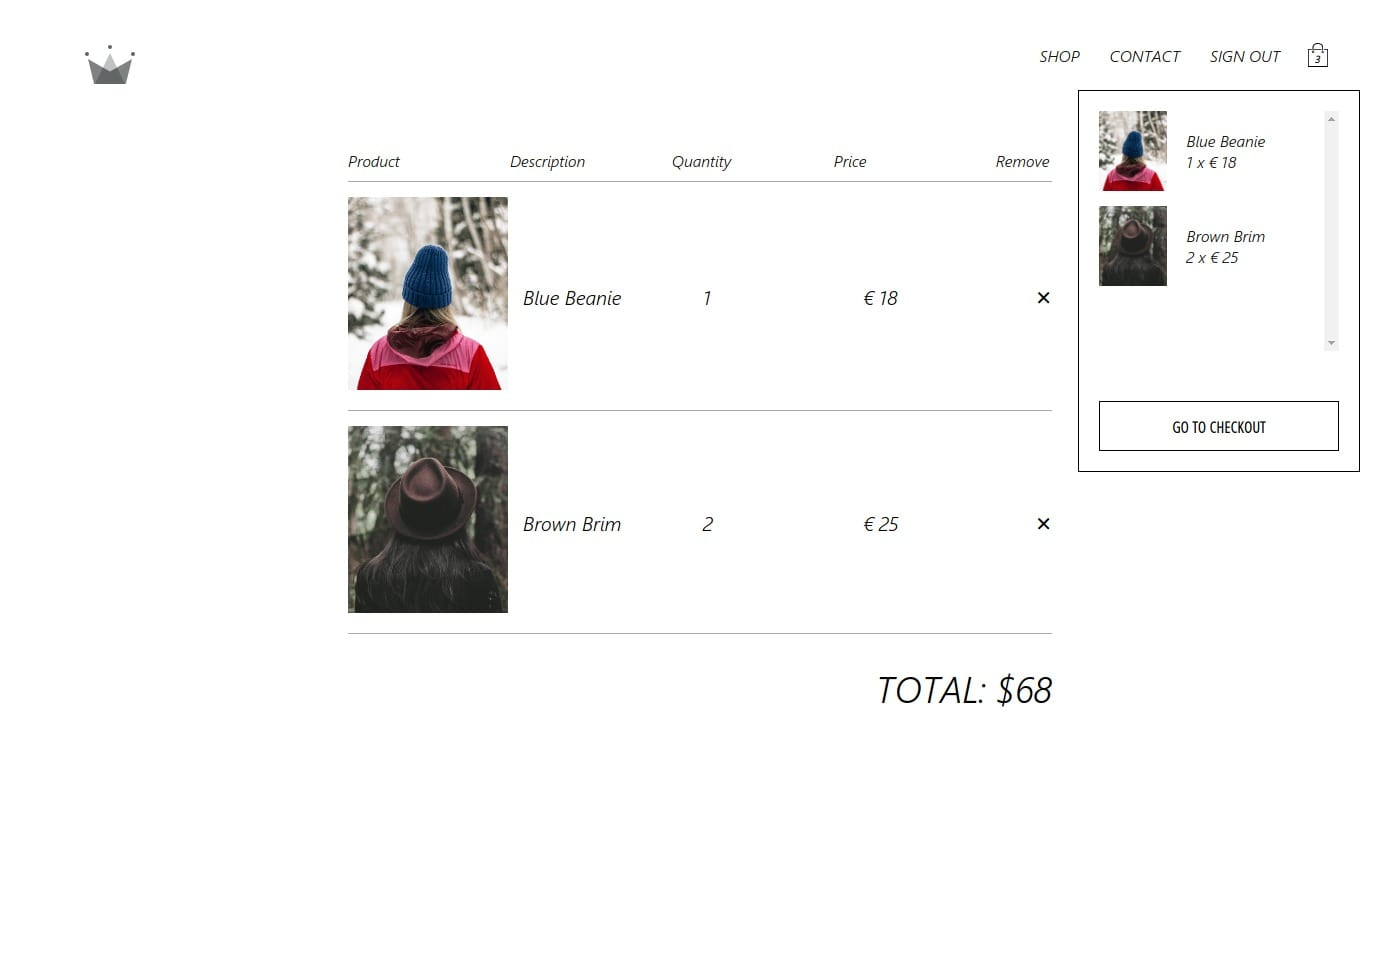
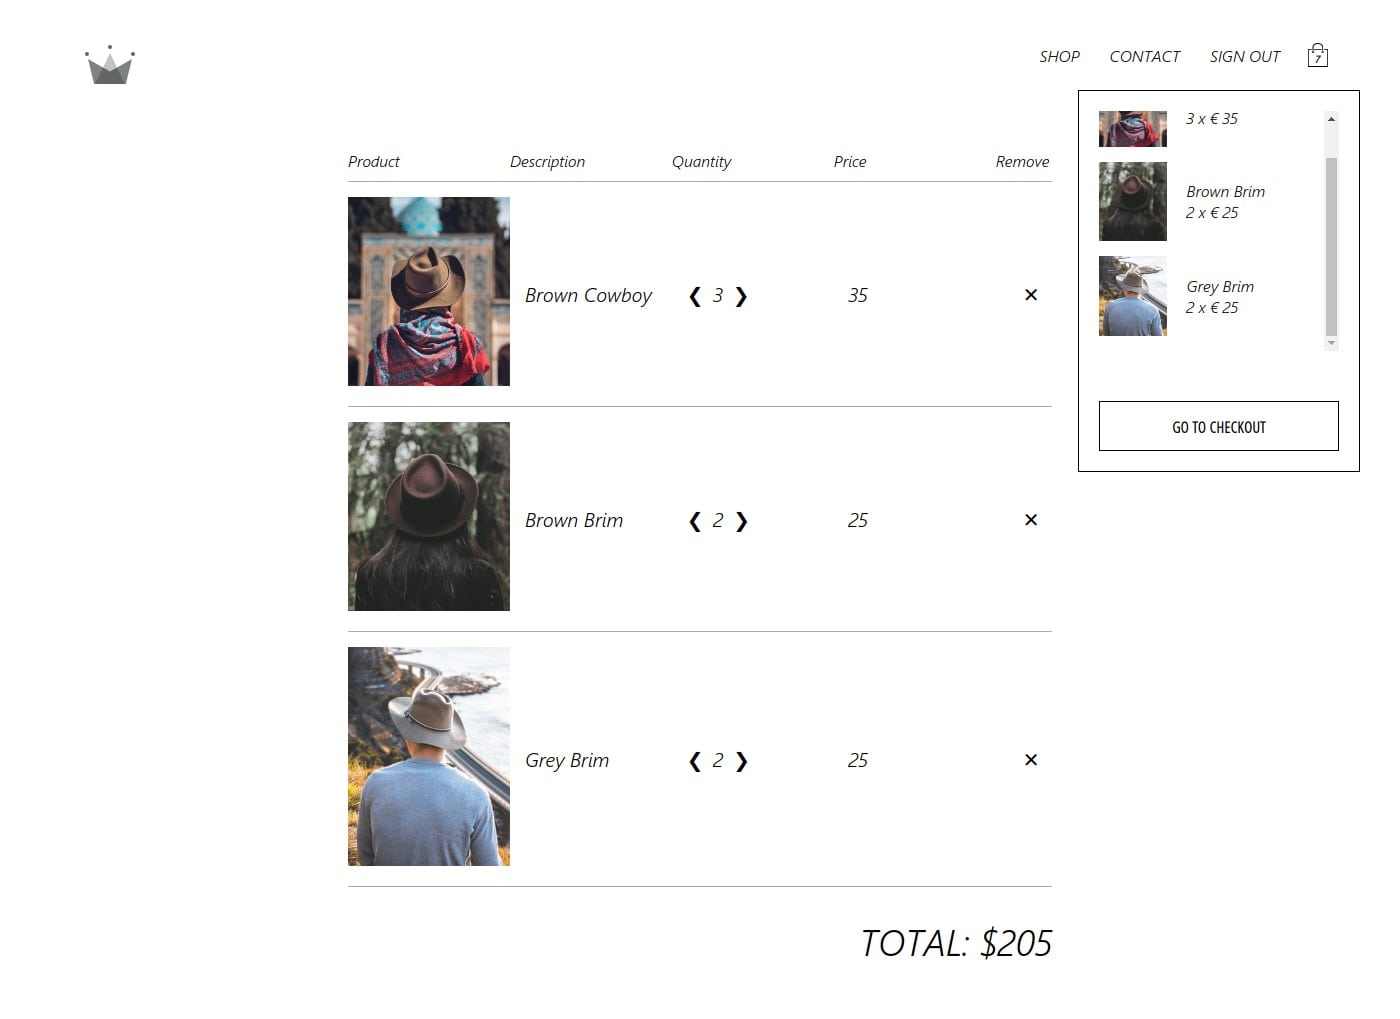
add: remove goods from cart

diff --git a/src/components/checkout-item/checkout-item.component.jsx b/src/components/checkout-item/checkout-item.component.jsx
@@ -1,19 +1,45 @@
 import React from 'react';
+import { connect } from 'react-redux';
+
+import { clearItemFromCart, addItem, removeItem } from 'store/cart/cart.actions';
 
 import './checkout-item.styles.scss';
 
 
-const CheckoutItem = ({ cartItem: { name, imageUrl, price, quantity } }) => (
-	<div className='checkout-item'>
-		<div className='image-container'>
-			<img alt='item' src={ imageUrl } />
+const CheckoutItem = ({ cartItem, clearItem, addItem, removeItem }) => {
+	const { name, imageUrl, price, quantity } = cartItem;
+	
+	return (
+		<div className='checkout-item'>
+			<div className='image-container'>
+				<img src={imageUrl} alt='item' />
+			</div>
+			<span className='name'>{name}</span>
+			<span className='quantity'>
+        <div className='arrow' onClick={ () => removeItem(cartItem) }>
+          &#10094;
+        </div>
+        <span className='value'>{quantity}</span>
+        <div className='arrow' onClick={ () => addItem(cartItem) }>
+          &#10095;
+        </div>
+      </span>
+			<span className='price'>{price}</span>
+			<div className='remove-button' onClick={ () => clearItem(cartItem) }>
+				&#10005;
+			</div>
 		</div>
-		<span className='name'>{ name }</span>
-		<span className='quantity'>{ quantity }</span>
-		<span className='price'>€ { price }</span>
-		<span className='remove-button'>&#10005;</span>
-	</div>
-);
+	);
+};
 
 
-export default CheckoutItem;
+const mapDispatchToProps = dispatch => ({
+	clearItem: item => dispatch(clearItemFromCart(item)),
+	addItem: item => dispatch(addItem(item)),
+	removeItem: item => dispatch(removeItem(item))
+});
+
+export default connect(
+	null,
+	mapDispatchToProps
+)(CheckoutItem);

diff --git a/src/store/cart/cart.reducer.js b/src/store/cart/cart.reducer.js
@@ -1,5 +1,5 @@
 import CartActionTypes from './cart.types';
-import { addItemToCart } from './cart.utils';
+import { addItemToCart, removeItemFromCart } from './cart.utils';
 
 
 const InitialState = {
@@ -16,6 +16,18 @@ const cartReducer = (state = InitialState, action) => {
       return {
         ...state,
         cartItems: addItemToCart(state.cartItems, action.payload)
+      };
+  
+    case CartActionTypes.CLEAR_ITEM_FROM_CART:
+      return {
+        ...state,
+        cartItems:  state.cartItems.filter(cartItem => cartItem.id !== action.payload.id)
+      };
+  
+    case CartActionTypes.REMOVE_ITEM:
+      return {
+        ...state,
+        cartItems: removeItemFromCart(state.cartItems, action.payload)
       };
       
     default:

diff --git a/src/store/cart/cart.utils.js b/src/store/cart/cart.utils.js
@@ -13,3 +13,20 @@ export const addItemToCart = (cartItems, cartItemToAdd) => {
 	// if we are adding goods for the first time
 	return [ ...cartItems, { ...cartItemToAdd, quantity: 1 } ];
 };
+
+export const removeItemFromCart = ( cartItems, cartItemToRemove) => {
+	const existingCartItem = cartItems.find(
+		cartItem => cartItem.id === cartItemToRemove.id
+	);
+	
+	if (existingCartItem.quantity === 1) { // only one product instance
+		return cartItems.filter( cartItem => cartItem.id !== cartItemToRemove.id)
+	}
+	
+	// down number of goods by one
+	return cartItems.map(
+		cartItem => cartItem.id === cartItemToRemove.id
+			? { ...cartItem, quantity: (cartItem.quantity - 1) }
+			: cartItem
+	);
+};

diff --git a/src/components/checkout-item/checkout-item.styles.scss b/src/components/checkout-item/checkout-item.styles.scss
@@ -6,11 +6,11 @@
   padding: 15px 0;
   font-size: 20px;
   align-items: center;
-
+  
   .image-container {
     width: 23%;
     padding-right: 15px;
-
+    
     img {
       width: 100%;
       height: 100%;
@@ -21,11 +21,19 @@
   .price {
     width: 23%;
   }
-
+  
   .quantity {
-    padding-left: 20px;
+    display: flex;
+    
+    .arrow {
+      cursor: pointer;
+    }
+    
+    .value {
+      margin: 0 10px;
+    }
   }
-
+  
   .remove-button {
     padding-left: 12px;
     cursor: pointer;

diff --git a/src/store/cart/cart.actions.js b/src/store/cart/cart.actions.js
@@ -9,3 +9,13 @@ export const addItem = item => ({
   type: CartActionTypes.ADD_ITEM,
   payload: item
 });
+
+export const clearItemFromCart = item => ({
+  type: CartActionTypes.CLEAR_ITEM_FROM_CART,
+  payload: item
+});
+
+export const removeItem = item => ({
+  type: CartActionTypes.REMOVE_ITEM,
+  payload: item
+});

diff --git a/README.md b/README.md
@@ -1,4 +1,4 @@
-# Redux "Crown Clothes"
+# Redux Shop "Crown Clothes"
 
 This project was bootstrapped with [Create React App](https://github.com/facebook/create-react-app).
 
